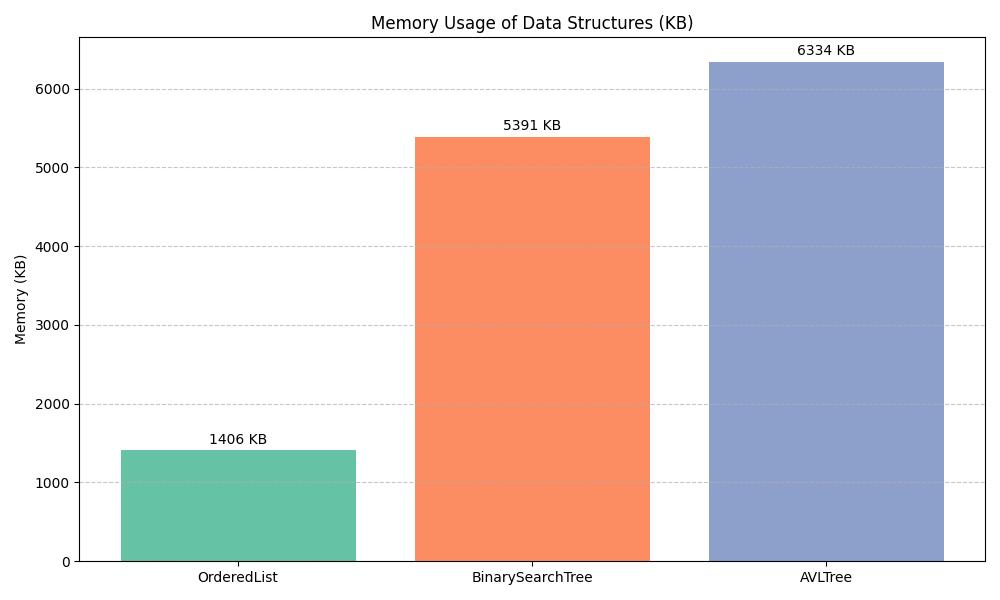
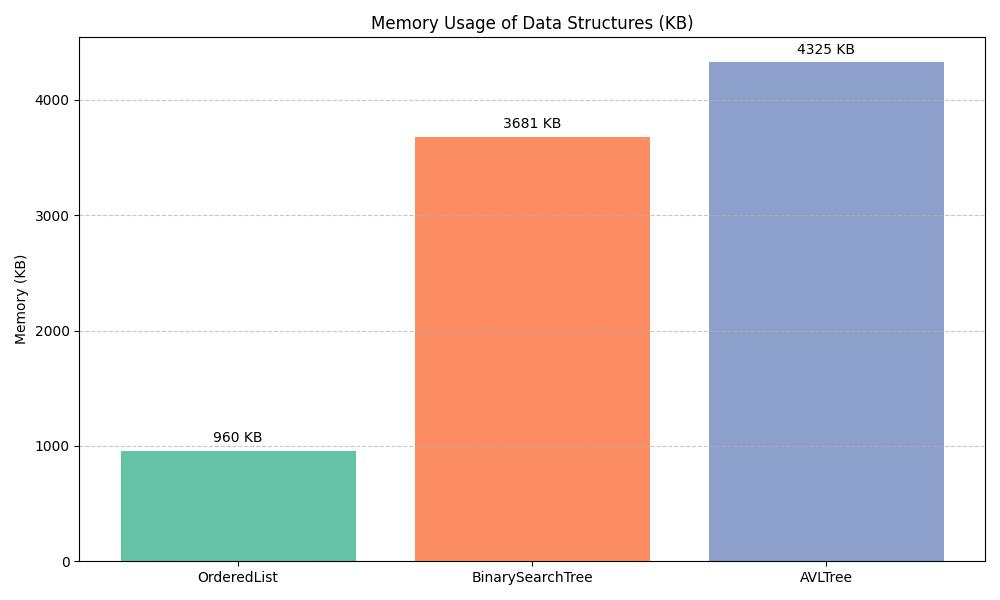
Fixes and test size changes

diff --git a/DataStructure/AVLTree.py b/DataStructure/AVLTree.py
@@ -247,3 +247,21 @@ class AVLTree(BinarySearchTree):
 
         return rank
 
+    def tree_to_list_inorder(self, node: AVLNode | None, nodes: list[AVLNode] = None) -> list[AVLNode]:
+        """
+        Helper method to traverse the AVL tree and collect nodes in in-order.
+
+        Parameters:
+            node (AVLNode | None): The current node in the traversal.
+            nodes (list[AVLNode], optional): Accumulator list for nodes.
+
+        Returns:
+            list[AVLNode]: List of AVL nodes in in-order.
+        """
+        if nodes is None:
+            nodes = []
+        if node is not None:
+            self.tree_to_list_inorder(node.getLeft(), nodes)
+            nodes.append(node)
+            self.tree_to_list_inorder(node.getRight(), nodes)
+        return nodes

diff --git a/main.py b/main.py
@@ -42,7 +42,7 @@ def get_list_memory_usage(head: ListNode):
 
 if __name__ == '__main__':
     TRIALS_PER_N = 0
-    N_VALUES = [1000, 2000, 4000, 6000, 8000, 10000, 12000, 14000, 16000, 18000, 20000, 22000, 24000, 26000, 28000, 30000]
+    N_VALUES = [10, 20, 40, 80, 160, 320, 640, 1280, 2560, 5120, 10240, 20480]
 
     osselect_results = {}
     osrank_results = {}
@@ -69,7 +69,8 @@ if __name__ == '__main__':
             listNodes.append(ListNode(value))
             treeNodes.append(bstNode)
             root_avl = avl_tree.insert(value, root_avl)
-            avlNodes.append(root_avl)
+
+        avlNodes = avl_tree.tree_to_list_inorder(avl_tree.getRoot())
 
         # Select only half of total
         TRIALS_PER_N = VALUES_NUMBER

diff --git a/DataStructure/BinarySearchTree.py b/DataStructure/BinarySearchTree.py
@@ -40,7 +40,7 @@ class BinarySearchTree(OrderStatisticStructure):
                 self.__root = newerNode
             return newerNode
 
-        if root.getValue() < value:
+        if value < root.getValue():
             root.setLeft(self.insert(root.getLeft(), value))
         else:
             root.setRight(self.insert(root.getRight(), value))
